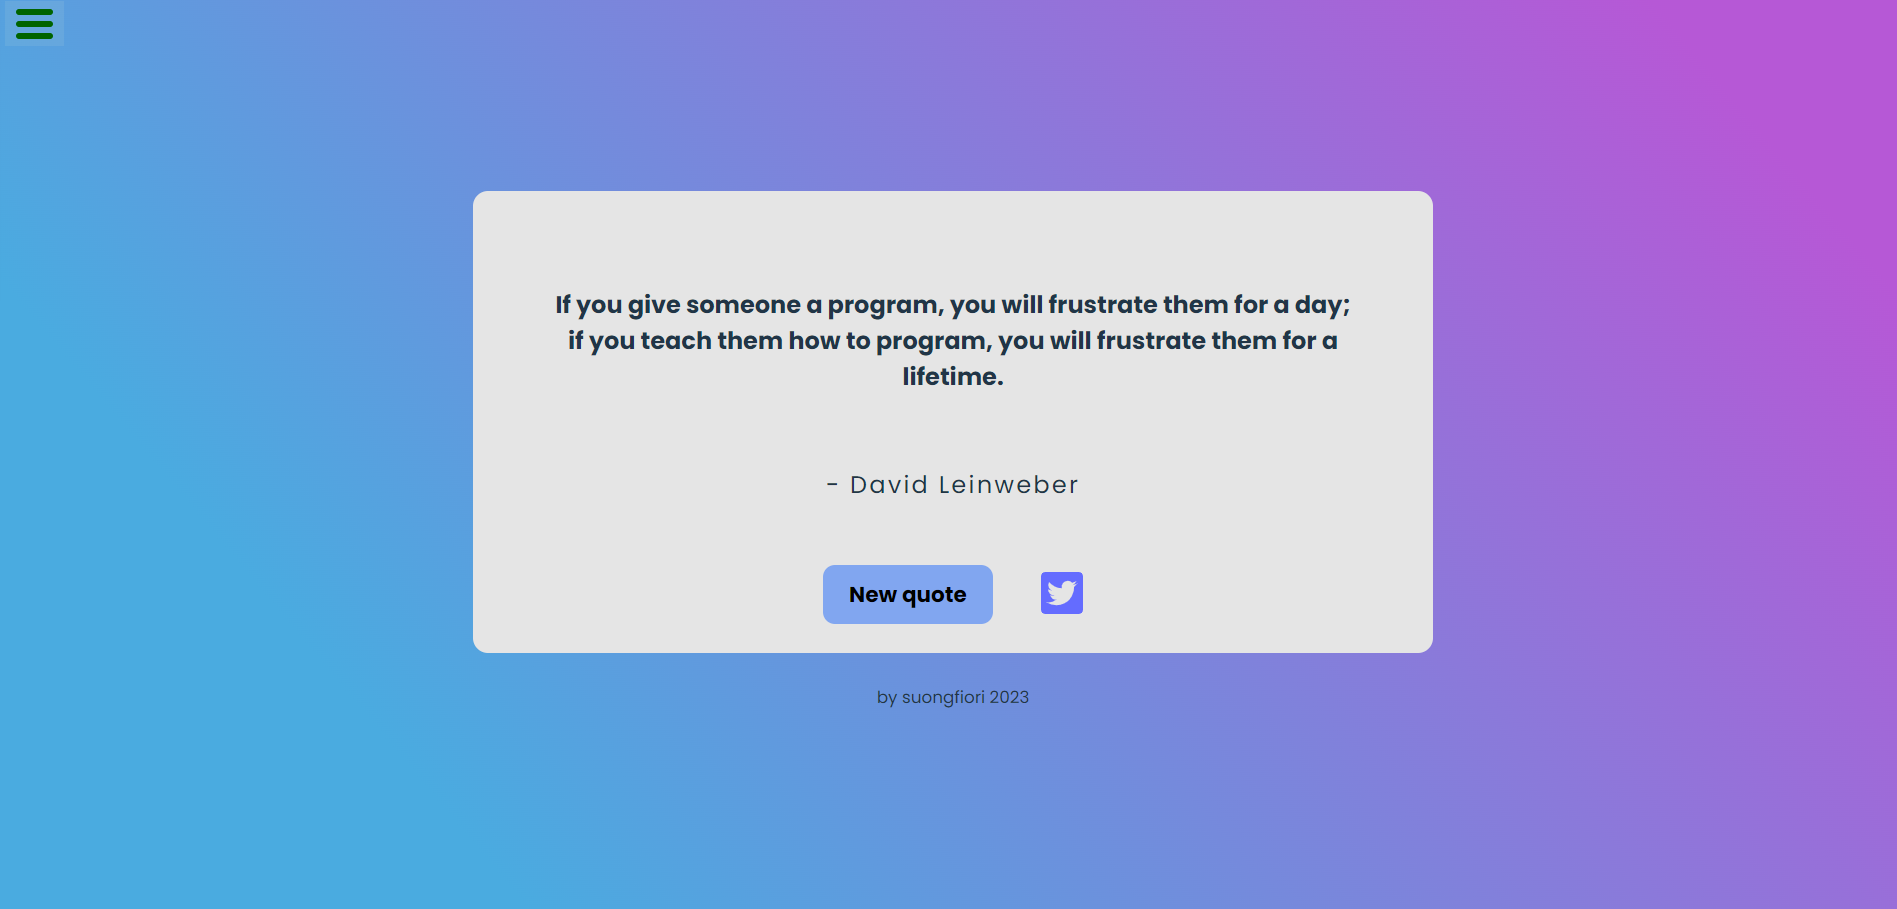
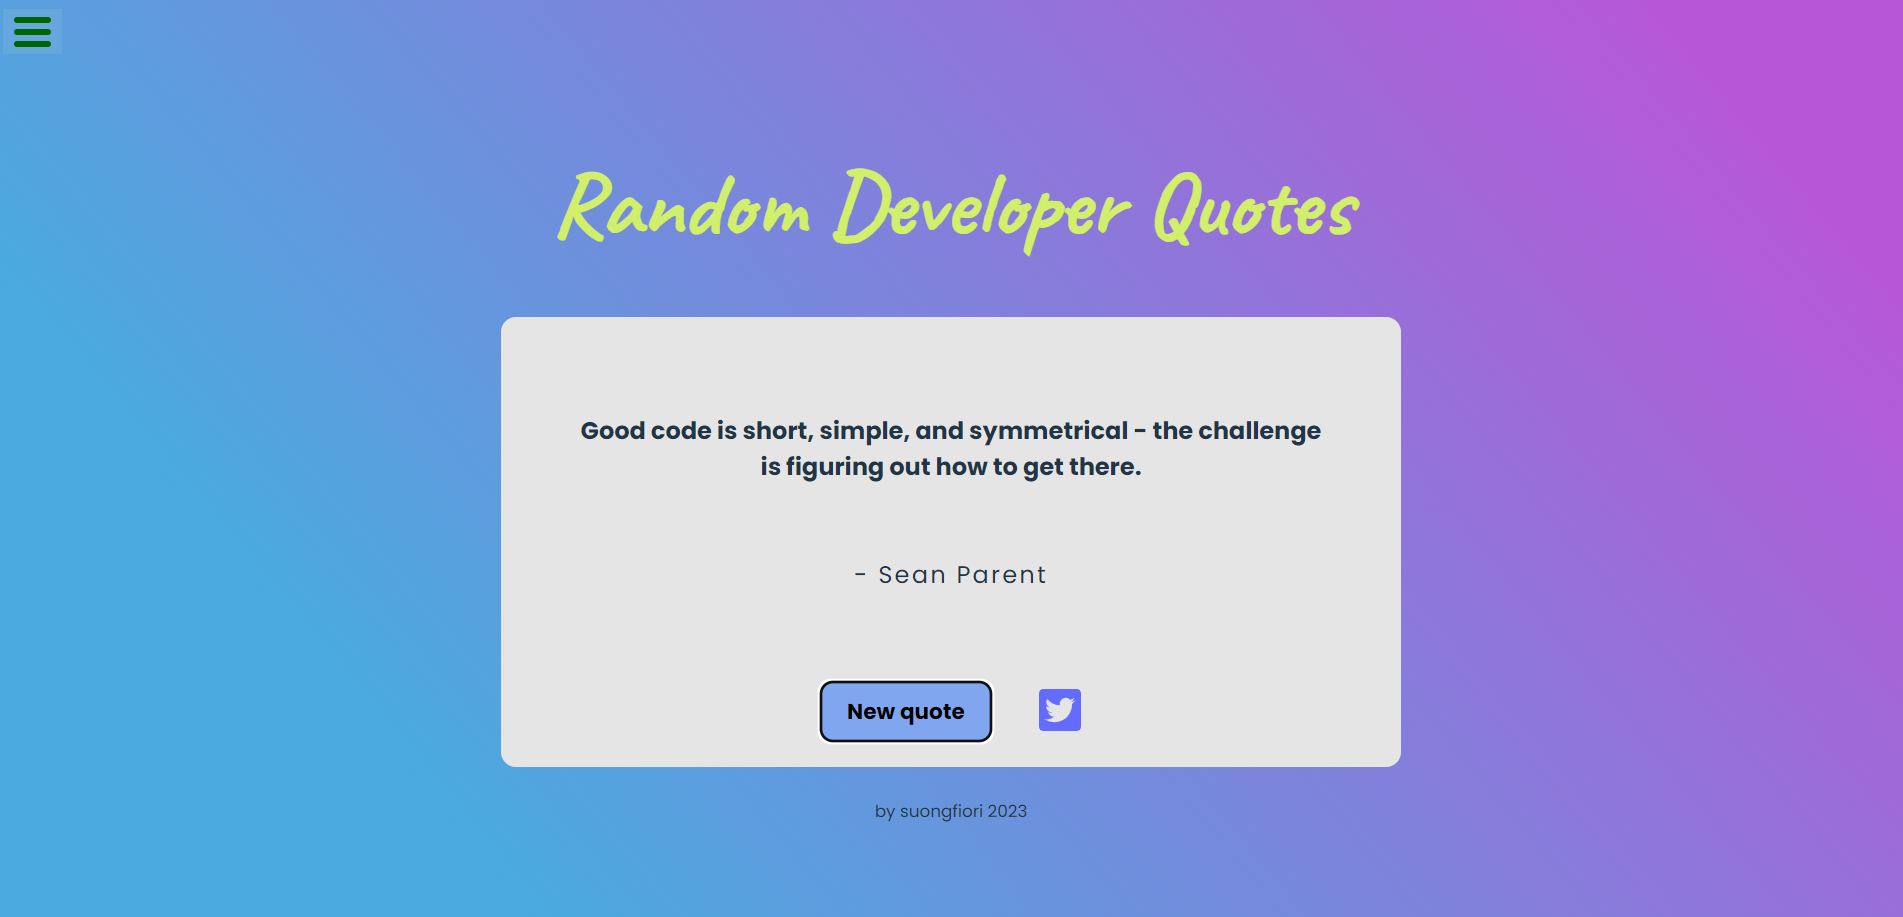
minor change

Changed region(s): [[0.2488, 0.1848, 0.7775, 0.8933], [0.0, 0.0, 0.0311, 0.0616]]

diff --git a/src/App.css b/src/App.css
@@ -14,18 +14,20 @@ html, body {
 }
 
 .main {
+  margin: auto;
   display: flex;
   flex-direction: column;
   justify-content: center;
   align-items: center;
   width: 100vw;
-  height: 100vh;
+  min-height: 100vh;
   background: linear-gradient(230deg, rgb(182, 88, 214) 10%, rgb(74, 171, 224) 80%);
 }
 
 /* Header */
 
 .header {
+  text-align: center;
   font-family: "Caveat", sans-serif;
   font-weight: 700;
   color: #d2ef6b;
@@ -47,8 +49,6 @@ html, body {
 }
 
 .quote {
-  width: 100%;
-  place-content: center;
   font-size: clamp(.6rem , -0.875rem + 8.333vw, 1rem);
 }
 
@@ -83,11 +83,11 @@ html, body {
 @media only screen and (min-width: 700px) {
   .main {
     width: 100vw;
-    height: 100vh;
+    min-height: 100vh;
   }
   #quote-box {
-    width: 50%;
-    height: 50%;
+    width: 600px;
+    height: 300px;
     padding: 3rem;
   }
   .text {
@@ -98,7 +98,7 @@ html, body {
     margin-top: 3rem;
   }
   .tweet {
-    margin-bottom: 2rem;
+    margin-bottom: 1rem;
   }
 }
 

diff --git a/src/components/Header.jsx b/src/components/Header.jsx
@@ -1,7 +1,7 @@
 const Header = () => {
   return (
     <div className='header'>
-        <h1>Random Developer Quotes</h1>
+        <h1 className="title">Random Developer Quotes</h1>
     </div>
   )
 }
